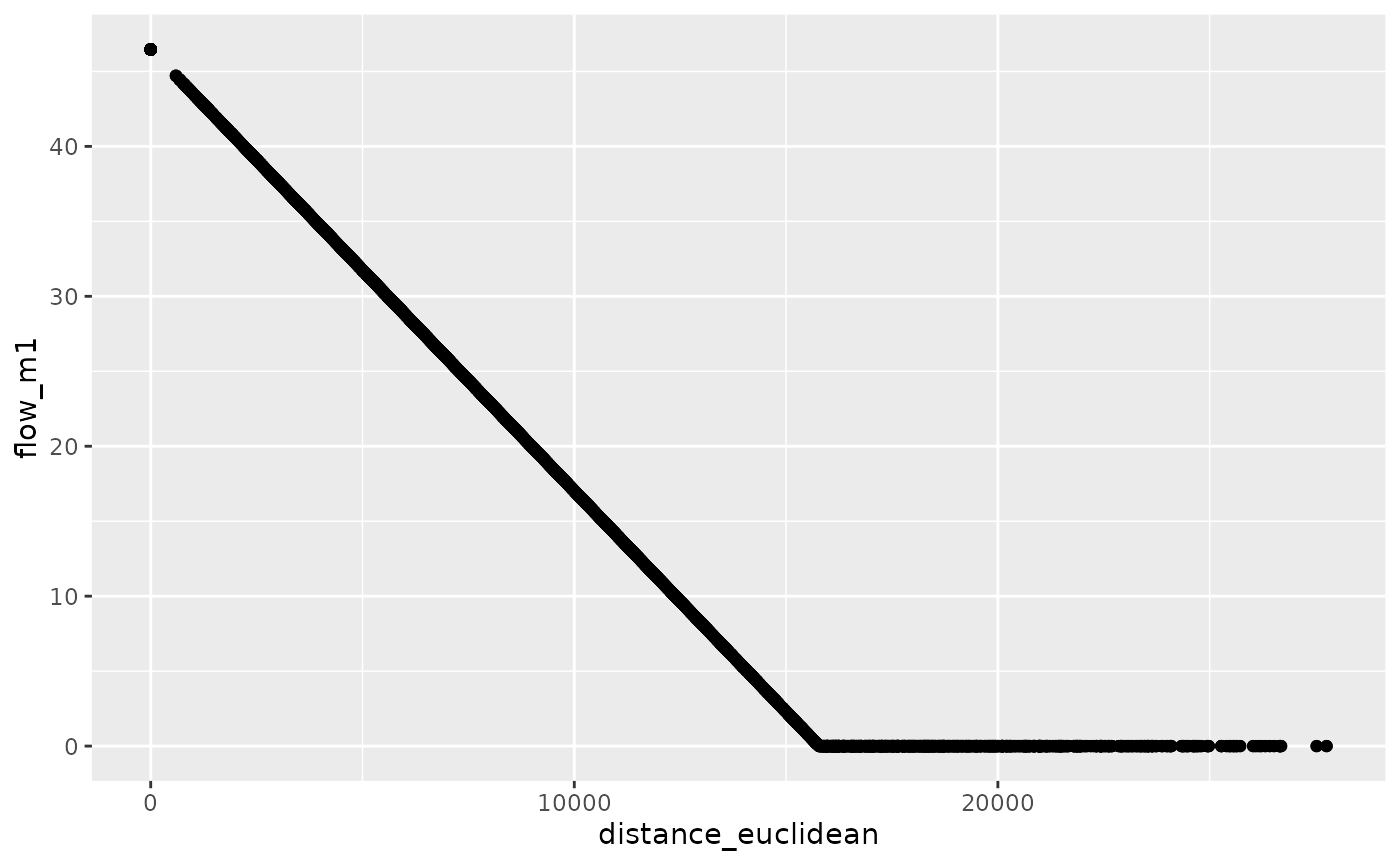
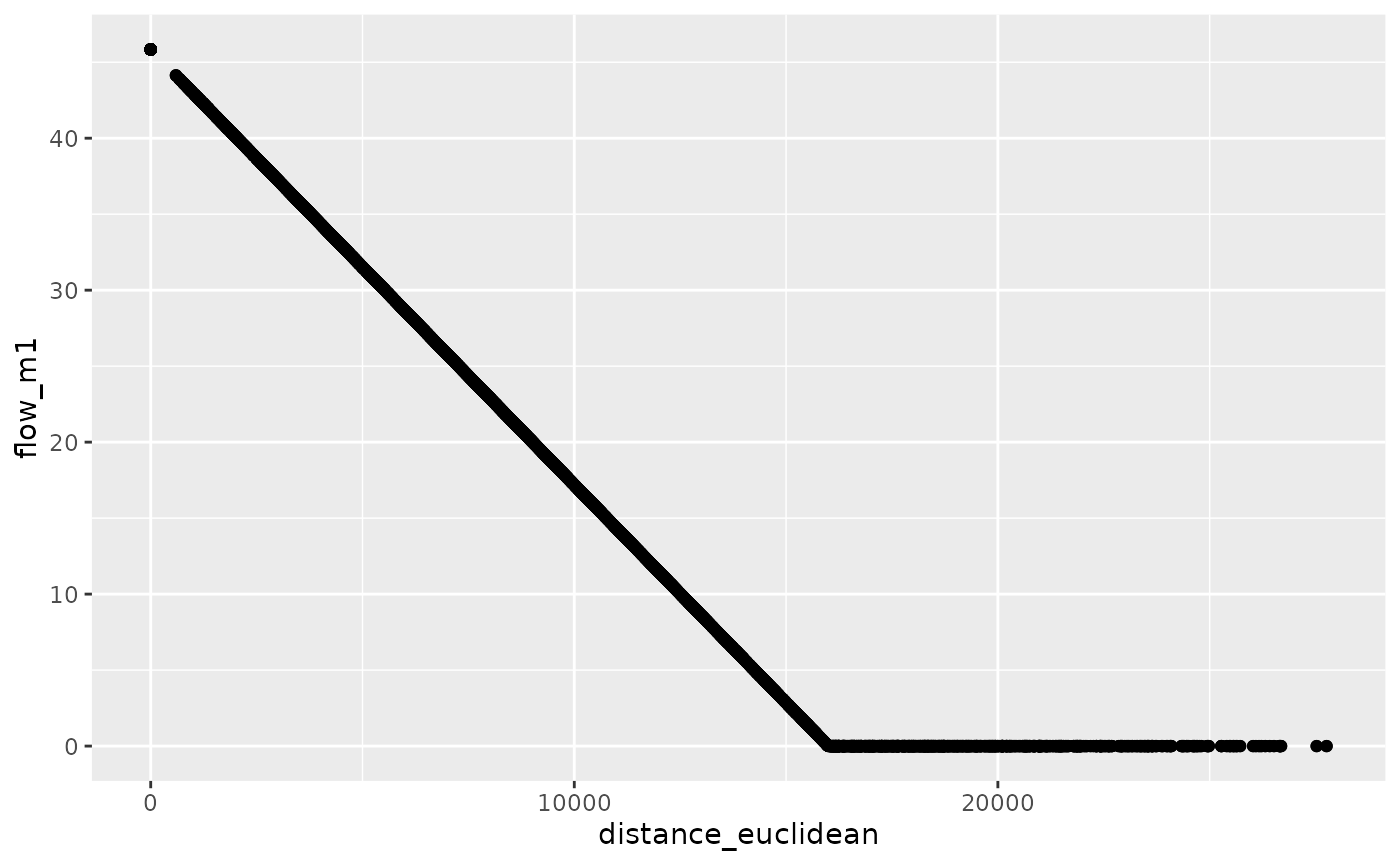
Built site for si: 0.0.1@511f383
Former-commit-id: f141c417f3a5605a7d65c2df8001ace9b1018df8

diff --git a/articles/validation.html b/articles/validation.html
@@ -162,12 +162,12 @@
 <code class="sourceCode R"><span class="va">od_from_si</span><span class="op">$</span><span class="va">flow_equal</span> <span class="op">=</span> <span class="fu"><a href="https://rdrr.io/r/base/sum.html" class="external-link">sum</a></span><span class="op">(</span><span class="va">si_od_census</span><span class="op">$</span><span class="va">all</span><span class="op">)</span> <span class="op">/</span> <span class="fu"><a href="https://rdrr.io/r/base/nrow.html" class="external-link">nrow</a></span><span class="op">(</span><span class="va">od_from_si</span><span class="op">)</span></code></pre></div>
 <p>Plotting this against the observed number of trips from the census data shows that, as we would expect, there is no correlation between this simplistic non-model and reality:</p>
 <div class="sourceCode" id="cb8"><pre class="downlit sourceCode r">
-<code class="sourceCode R"><span class="va">od_joined</span> <span class="op">=</span> <span class="fu"><a href="https://dplyr.tidyverse.org/reference/mutate-joins.html" class="external-link">left_join</a></span><span class="op">(</span><span class="va">od_from_si</span>, <span class="va">si_od_census</span><span class="op">)</span>
+<code class="sourceCode R"><span class="va">od_joined</span> <span class="op">=</span> <span class="fu"><a href="https://dplyr.tidyverse.org/reference/mutate-joins.html" class="external-link">left_join</a></span><span class="op">(</span><span class="va">od_from_si</span>, <span class="va">si_od_census</span><span class="op">)</span> <span class="op"><a href="https://magrittr.tidyverse.org/reference/pipe.html" class="external-link">%&gt;%</a></span> 
+  <span class="fu"><a href="https://dplyr.tidyverse.org/reference/mutate.html" class="external-link">mutate</a></span><span class="op">(</span>all <span class="op">=</span> <span class="fu"><a href="https://dplyr.tidyverse.org/reference/case_when.html" class="external-link">case_when</a></span><span class="op">(</span><span class="fu"><a href="https://rdrr.io/r/base/NA.html" class="external-link">is.na</a></span><span class="op">(</span><span class="va">all</span><span class="op">)</span> <span class="op">~</span> <span class="fl">0</span>, <span class="cn">TRUE</span> <span class="op">~</span> <span class="va">all</span><span class="op">)</span><span class="op">)</span>
 <span class="co">#&gt; Joining, by = c("O", "D")</span>
 <span class="va">od_joined</span> <span class="op"><a href="https://magrittr.tidyverse.org/reference/pipe.html" class="external-link">%&gt;%</a></span> 
   <span class="fu"><a href="https://ggplot2.tidyverse.org/reference/ggplot.html" class="external-link">ggplot</a></span><span class="op">(</span><span class="fu"><a href="https://ggplot2.tidyverse.org/reference/aes.html" class="external-link">aes</a></span><span class="op">(</span><span class="va">all</span>, <span class="va">flow_equal</span><span class="op">)</span><span class="op">)</span> <span class="op">+</span>
-  <span class="fu"><a href="https://ggplot2.tidyverse.org/reference/geom_point.html" class="external-link">geom_point</a></span><span class="op">(</span><span class="op">)</span>
-<span class="co">#&gt; Warning: Removed 913 rows containing missing values (geom_point).</span></code></pre></div>
+  <span class="fu"><a href="https://ggplot2.tidyverse.org/reference/geom_point.html" class="external-link">geom_point</a></span><span class="op">(</span><span class="op">)</span></code></pre></div>
 <p><img src="validation_files/figure-html/unnamed-chunk-8-1.png" width="700"></p>
 <p>So, how can we do better? Although the classic gravity model is often presented as the most type, we can actually go a step simpler than that, using linear and exponential decay to approximate travel, without any attention paid to the population in each zone or any other factor. So let’s get stuck in and fit some models!</p>
 <div class="sourceCode" id="cb9"><pre class="downlit sourceCode r">
@@ -182,15 +182,95 @@
 <div class="sourceCode" id="cb10"><pre class="downlit sourceCode r">
 <code class="sourceCode R"><span class="va">od_joined</span> <span class="op"><a href="https://magrittr.tidyverse.org/reference/pipe.html" class="external-link">%&gt;%</a></span> 
   <span class="fu"><a href="https://ggplot2.tidyverse.org/reference/ggplot.html" class="external-link">ggplot</a></span><span class="op">(</span><span class="fu"><a href="https://ggplot2.tidyverse.org/reference/aes.html" class="external-link">aes</a></span><span class="op">(</span><span class="va">all</span>, <span class="va">flow_m1</span><span class="op">)</span><span class="op">)</span> <span class="op">+</span>
-  <span class="fu"><a href="https://ggplot2.tidyverse.org/reference/geom_point.html" class="external-link">geom_point</a></span><span class="op">(</span><span class="op">)</span>
-<span class="co">#&gt; Warning: Removed 913 rows containing missing values (geom_point).</span></code></pre></div>
+  <span class="fu"><a href="https://ggplot2.tidyverse.org/reference/geom_point.html" class="external-link">geom_point</a></span><span class="op">(</span><span class="op">)</span></code></pre></div>
 <p><img src="validation_files/figure-html/unnamed-chunk-9-2.png" width="700"></p>
 <div class="sourceCode" id="cb11"><pre class="downlit sourceCode r">
 <code class="sourceCode R"><span class="fu"><a href="https://rdrr.io/r/base/sum.html" class="external-link">sum</a></span><span class="op">(</span><span class="va">od_joined</span><span class="op">$</span><span class="va">flow_m1</span><span class="op">)</span> <span class="op">==</span> <span class="fu"><a href="https://rdrr.io/r/base/sum.html" class="external-link">sum</a></span><span class="op">(</span><span class="va">od_joined</span><span class="op">$</span><span class="va">all</span>, na.rm <span class="op">=</span> <span class="cn">TRUE</span><span class="op">)</span>
 <span class="co">#&gt; [1] TRUE</span>
 <span class="fu"><a href="https://rdrr.io/r/stats/cor.html" class="external-link">cor</a></span><span class="op">(</span><span class="va">od_joined</span><span class="op">$</span><span class="va">all</span>, <span class="va">od_joined</span><span class="op">$</span><span class="va">flow_m1</span>, use <span class="op">=</span> <span class="st">"complete.obs"</span><span class="op">)</span><span class="op">^</span><span class="fl">2</span>
-<span class="co">#&gt; [1] 0.07365386</span></code></pre></div>
+<span class="co">#&gt; [1] 0.07686445</span></code></pre></div>
 <p>The simple linear model implemented in the code chunk above predicts flow solely on the basis of distance between OD pairs. The results are <em>slightly</em> better than the ‘equal trips for all OD pairs’ approach but still pretty bad, explaining only 7% of the variability observed in <code>all</code> trips between OD pairs in the census dataset. Furthermore, the result also reveals an issue when fitting models to OD datasets: because ‘negative flow’ does not make sense in this contexts, models that can predict negative values should be questioned.</p>
+<p>An approach that prevents negative values, that also captures the fact that there is non-linear (near exponential) decay with distance and travel, is SIMs with exponential decay. We can implement such a model as follows:</p>
+<div class="sourceCode" id="cb12"><pre class="downlit sourceCode r">
+<code class="sourceCode R"><span class="va">od_joined</span> <span class="op">=</span> <span class="va">od_joined</span> <span class="op"><a href="https://magrittr.tidyverse.org/reference/pipe.html" class="external-link">%&gt;%</a></span> 
+  <span class="fu"><a href="https://dplyr.tidyverse.org/reference/mutate.html" class="external-link">mutate</a></span><span class="op">(</span>distance_nonzero <span class="op">=</span> <span class="fu"><a href="https://dplyr.tidyverse.org/reference/case_when.html" class="external-link">case_when</a></span><span class="op">(</span>
+    <span class="va">distance_euclidean</span> <span class="op">==</span> <span class="fl">0</span> <span class="op">~</span> <span class="fl">50</span>,
+    <span class="cn">TRUE</span> <span class="op">~</span> <span class="va">distance_euclidean</span><span class="op">)</span><span class="op">)</span>
+<span class="va">m2</span> <span class="op">=</span> <span class="fu"><a href="https://rdrr.io/r/stats/nls.html" class="external-link">nls</a></span><span class="op">(</span>
+  formula <span class="op">=</span> <span class="va">all</span> <span class="op">~</span> <span class="va">a</span> <span class="op">+</span> <span class="va">distance_nonzero</span><span class="op">^</span><span class="va">b</span>,
+  start <span class="op">=</span> <span class="fu"><a href="https://rdrr.io/r/base/list.html" class="external-link">list</a></span><span class="op">(</span>a <span class="op">=</span> <span class="fl">5</span>, b <span class="op">=</span> <span class="op">-</span><span class="fl">0.8</span><span class="op">)</span>,
+  data <span class="op">=</span> <span class="va">od_joined</span>
+  <span class="op">)</span>
+<span class="co">#&gt; Error in numericDeriv(form[[3L]], names(ind), env, central = nDcentral): Missing value or an infinity produced when evaluating the model</span></code></pre></div>
+<p>As shown in the code above, the model fails to converge. An alternative approach is as follows:</p>
+<div class="sourceCode" id="cb13"><pre class="downlit sourceCode r">
+<code class="sourceCode R"><span class="va">m2</span> <span class="op">=</span> <span class="fu">minpack.lm</span><span class="fu">::</span><span class="fu"><a href="https://rdrr.io/pkg/minpack.lm/man/nlsLM.html" class="external-link">nlsLM</a></span><span class="op">(</span>
+  formula <span class="op">=</span> <span class="va">all</span> <span class="op">~</span> <span class="va">a</span> <span class="op">+</span> <span class="va">distance_nonzero</span><span class="op">^</span><span class="va">b</span>,
+  start <span class="op">=</span> <span class="fu"><a href="https://rdrr.io/r/base/list.html" class="external-link">list</a></span><span class="op">(</span>a <span class="op">=</span> <span class="fl">5</span>, b <span class="op">=</span> <span class="op">-</span><span class="fl">0.8</span><span class="op">)</span>,
+  data <span class="op">=</span> <span class="va">od_joined</span>
+  <span class="op">)</span>
+<span class="co"># m2 = gslnls::gsl_nls(</span>
+<span class="co">#   all ~ a + distance_nonzero^b,</span>
+<span class="co">#   start = list(a = 10, b = -0.08),</span>
+<span class="co">#   # control = gslnls::gsl_nls_control(scale = "more"),</span>
+<span class="co">#   control = gslnls::gsl_nls_control( solver = "svd"),</span>
+<span class="co">#   data = od_joined</span>
+<span class="co">#   )</span>
+<span class="va">od_joined</span> <span class="op">=</span> <span class="va">od_joined</span> <span class="op"><a href="https://magrittr.tidyverse.org/reference/pipe.html" class="external-link">%&gt;%</a></span> 
+  <span class="fu"><a href="../reference/si_predict.html">si_predict</a></span><span class="op">(</span><span class="va">m2</span>, constraint_total <span class="op">=</span> <span class="va">total</span>, output_col <span class="op">=</span> <span class="st">"flow_m2"</span><span class="op">)</span>
+<span class="va">od_joined</span> <span class="op"><a href="https://magrittr.tidyverse.org/reference/pipe.html" class="external-link">%&gt;%</a></span> 
+  <span class="fu"><a href="https://ggplot2.tidyverse.org/reference/ggplot.html" class="external-link">ggplot</a></span><span class="op">(</span><span class="fu"><a href="https://ggplot2.tidyverse.org/reference/aes.html" class="external-link">aes</a></span><span class="op">(</span><span class="va">distance_euclidean</span>, <span class="va">flow_m2</span><span class="op">)</span><span class="op">)</span> <span class="op">+</span>
+  <span class="fu"><a href="https://ggplot2.tidyverse.org/reference/geom_point.html" class="external-link">geom_point</a></span><span class="op">(</span><span class="op">)</span></code></pre></div>
+<p><img src="validation_files/figure-html/unnamed-chunk-11-1.png" width="700"></p>
+<div class="sourceCode" id="cb14"><pre class="downlit sourceCode r">
+<code class="sourceCode R"><span class="va">od_joined</span> <span class="op"><a href="https://magrittr.tidyverse.org/reference/pipe.html" class="external-link">%&gt;%</a></span> 
+  <span class="fu"><a href="https://ggplot2.tidyverse.org/reference/ggplot.html" class="external-link">ggplot</a></span><span class="op">(</span><span class="fu"><a href="https://ggplot2.tidyverse.org/reference/aes.html" class="external-link">aes</a></span><span class="op">(</span><span class="va">all</span>, <span class="va">flow_m2</span><span class="op">)</span><span class="op">)</span> <span class="op">+</span>
+  <span class="fu"><a href="https://ggplot2.tidyverse.org/reference/geom_point.html" class="external-link">geom_point</a></span><span class="op">(</span><span class="op">)</span></code></pre></div>
+<p><img src="validation_files/figure-html/unnamed-chunk-11-2.png" width="700"></p>
+<div class="sourceCode" id="cb15"><pre class="downlit sourceCode r">
+<code class="sourceCode R"><span class="fu"><a href="https://rdrr.io/r/stats/cor.html" class="external-link">cor</a></span><span class="op">(</span><span class="va">od_joined</span><span class="op">$</span><span class="va">all</span>, <span class="va">od_joined</span><span class="op">$</span><span class="va">flow_m2</span>, use <span class="op">=</span> <span class="st">"complete.obs"</span><span class="op">)</span><span class="op">^</span><span class="fl">2</span>
+<span class="co">#&gt; [1] 0.1444543</span></code></pre></div>
+<p>We can overcome this using a <a href="https://douglas-watson.github.io/post/2018-09_exponential_curve_fitting/" class="external-link">self starting function</a>:</p>
+<div class="sourceCode" id="cb16"><pre class="downlit sourceCode r">
+<code class="sourceCode R"><span class="va">m3</span> <span class="op">=</span> <span class="fu"><a href="https://rdrr.io/r/stats/nls.html" class="external-link">nls</a></span><span class="op">(</span>
+  formula <span class="op">=</span> <span class="va">all</span> <span class="op">~</span> <span class="fu"><a href="https://rdrr.io/r/stats/SSasymp.html" class="external-link">SSasymp</a></span><span class="op">(</span><span class="va">distance_nonzero</span>, <span class="va">a</span>, <span class="va">b</span>, lrc <span class="op">=</span> <span class="va">log_alpha</span><span class="op">)</span>,
+  data <span class="op">=</span> <span class="va">od_joined</span>
+  <span class="op">)</span>
+<span class="va">od_joined</span> <span class="op">=</span> <span class="va">od_joined</span> <span class="op"><a href="https://magrittr.tidyverse.org/reference/pipe.html" class="external-link">%&gt;%</a></span> 
+  <span class="fu"><a href="../reference/si_predict.html">si_predict</a></span><span class="op">(</span><span class="va">m3</span>, constraint_total <span class="op">=</span> <span class="va">total</span>, output_col <span class="op">=</span> <span class="st">"flow_m3"</span><span class="op">)</span>
+<span class="va">od_joined</span> <span class="op"><a href="https://magrittr.tidyverse.org/reference/pipe.html" class="external-link">%&gt;%</a></span> 
+  <span class="fu"><a href="https://ggplot2.tidyverse.org/reference/ggplot.html" class="external-link">ggplot</a></span><span class="op">(</span><span class="fu"><a href="https://ggplot2.tidyverse.org/reference/aes.html" class="external-link">aes</a></span><span class="op">(</span><span class="va">distance_euclidean</span>, <span class="va">flow_m3</span><span class="op">)</span><span class="op">)</span> <span class="op">+</span>
+  <span class="fu"><a href="https://ggplot2.tidyverse.org/reference/geom_point.html" class="external-link">geom_point</a></span><span class="op">(</span><span class="op">)</span></code></pre></div>
+<p><img src="validation_files/figure-html/unnamed-chunk-12-1.png" width="700"></p>
+<div class="sourceCode" id="cb17"><pre class="downlit sourceCode r">
+<code class="sourceCode R"><span class="va">od_joined</span> <span class="op"><a href="https://magrittr.tidyverse.org/reference/pipe.html" class="external-link">%&gt;%</a></span> 
+  <span class="fu"><a href="https://ggplot2.tidyverse.org/reference/ggplot.html" class="external-link">ggplot</a></span><span class="op">(</span><span class="fu"><a href="https://ggplot2.tidyverse.org/reference/aes.html" class="external-link">aes</a></span><span class="op">(</span><span class="va">all</span>, <span class="va">flow_m3</span><span class="op">)</span><span class="op">)</span> <span class="op">+</span>
+  <span class="fu"><a href="https://ggplot2.tidyverse.org/reference/geom_point.html" class="external-link">geom_point</a></span><span class="op">(</span><span class="op">)</span></code></pre></div>
+<p><img src="validation_files/figure-html/unnamed-chunk-12-2.png" width="700"></p>
+<div class="sourceCode" id="cb18"><pre class="downlit sourceCode r">
+<code class="sourceCode R"><span class="fu"><a href="https://rdrr.io/r/stats/cor.html" class="external-link">cor</a></span><span class="op">(</span><span class="va">od_joined</span><span class="op">$</span><span class="va">all</span>, <span class="va">od_joined</span><span class="op">$</span><span class="va">flow_m3</span>, use <span class="op">=</span> <span class="st">"complete.obs"</span><span class="op">)</span><span class="op">^</span><span class="fl">2</span>
+<span class="co">#&gt; [1] 0.1441077</span></code></pre></div>
+<p>Another approach is with the <code>minpack.lm</code> package:</p>
+<div class="sourceCode" id="cb19"><pre class="downlit sourceCode r">
+<code class="sourceCode R"><span class="va">m4</span> <span class="op">=</span> <span class="fu">minpack.lm</span><span class="fu">::</span><span class="fu"><a href="https://rdrr.io/pkg/minpack.lm/man/nlsLM.html" class="external-link">nlsLM</a></span><span class="op">(</span>
+  formula <span class="op">=</span> <span class="va">all</span> <span class="op">~</span> <span class="va">a</span> <span class="op">+</span> <span class="va">distance_nonzero</span><span class="op">^</span><span class="va">b</span>,
+  start <span class="op">=</span> <span class="fu"><a href="https://rdrr.io/r/base/list.html" class="external-link">list</a></span><span class="op">(</span>a <span class="op">=</span> <span class="fl">5</span>, b <span class="op">=</span> <span class="op">-</span><span class="fl">0.8</span><span class="op">)</span>,
+  data <span class="op">=</span> <span class="va">od_joined</span>
+  <span class="op">)</span>
+<span class="va">od_joined</span> <span class="op">=</span> <span class="va">od_joined</span> <span class="op"><a href="https://magrittr.tidyverse.org/reference/pipe.html" class="external-link">%&gt;%</a></span> 
+  <span class="fu"><a href="../reference/si_predict.html">si_predict</a></span><span class="op">(</span><span class="va">m4</span>, constraint_production <span class="op">=</span> <span class="va">origin_all</span>, output_col <span class="op">=</span> <span class="st">"flow_m4"</span><span class="op">)</span>
+<span class="va">od_joined</span> <span class="op"><a href="https://magrittr.tidyverse.org/reference/pipe.html" class="external-link">%&gt;%</a></span> 
+  <span class="fu"><a href="https://ggplot2.tidyverse.org/reference/ggplot.html" class="external-link">ggplot</a></span><span class="op">(</span><span class="fu"><a href="https://ggplot2.tidyverse.org/reference/aes.html" class="external-link">aes</a></span><span class="op">(</span><span class="va">distance_euclidean</span>, <span class="va">flow_m4</span><span class="op">)</span><span class="op">)</span> <span class="op">+</span>
+  <span class="fu"><a href="https://ggplot2.tidyverse.org/reference/geom_point.html" class="external-link">geom_point</a></span><span class="op">(</span><span class="op">)</span></code></pre></div>
+<p><img src="validation_files/figure-html/unnamed-chunk-14-1.png" width="700"></p>
+<div class="sourceCode" id="cb20"><pre class="downlit sourceCode r">
+<code class="sourceCode R"><span class="va">od_joined</span> <span class="op"><a href="https://magrittr.tidyverse.org/reference/pipe.html" class="external-link">%&gt;%</a></span> 
+  <span class="fu"><a href="https://ggplot2.tidyverse.org/reference/ggplot.html" class="external-link">ggplot</a></span><span class="op">(</span><span class="fu"><a href="https://ggplot2.tidyverse.org/reference/aes.html" class="external-link">aes</a></span><span class="op">(</span><span class="va">all</span>, <span class="va">flow_m4</span><span class="op">)</span><span class="op">)</span> <span class="op">+</span>
+  <span class="fu"><a href="https://ggplot2.tidyverse.org/reference/geom_point.html" class="external-link">geom_point</a></span><span class="op">(</span><span class="op">)</span></code></pre></div>
+<p><img src="validation_files/figure-html/unnamed-chunk-14-2.png" width="700"></p>
+<div class="sourceCode" id="cb21"><pre class="downlit sourceCode r">
+<code class="sourceCode R"><span class="fu"><a href="https://rdrr.io/r/stats/cor.html" class="external-link">cor</a></span><span class="op">(</span><span class="va">od_joined</span><span class="op">$</span><span class="va">all</span>, <span class="va">od_joined</span><span class="op">$</span><span class="va">flow_m4</span>, use <span class="op">=</span> <span class="st">"complete.obs"</span><span class="op">)</span><span class="op">^</span><span class="fl">2</span>
+<span class="co">#&gt; [1] 0.0003988892</span></code></pre></div>
 </div>
 <div class="section level2">
 <h2 id="valitation-based-on-2011-oa-wpz-data">Valitation based on 2011 OA-WPZ data<a class="anchor" aria-label="anchor" href="#valitation-based-on-2011-oa-wpz-data"></a>
